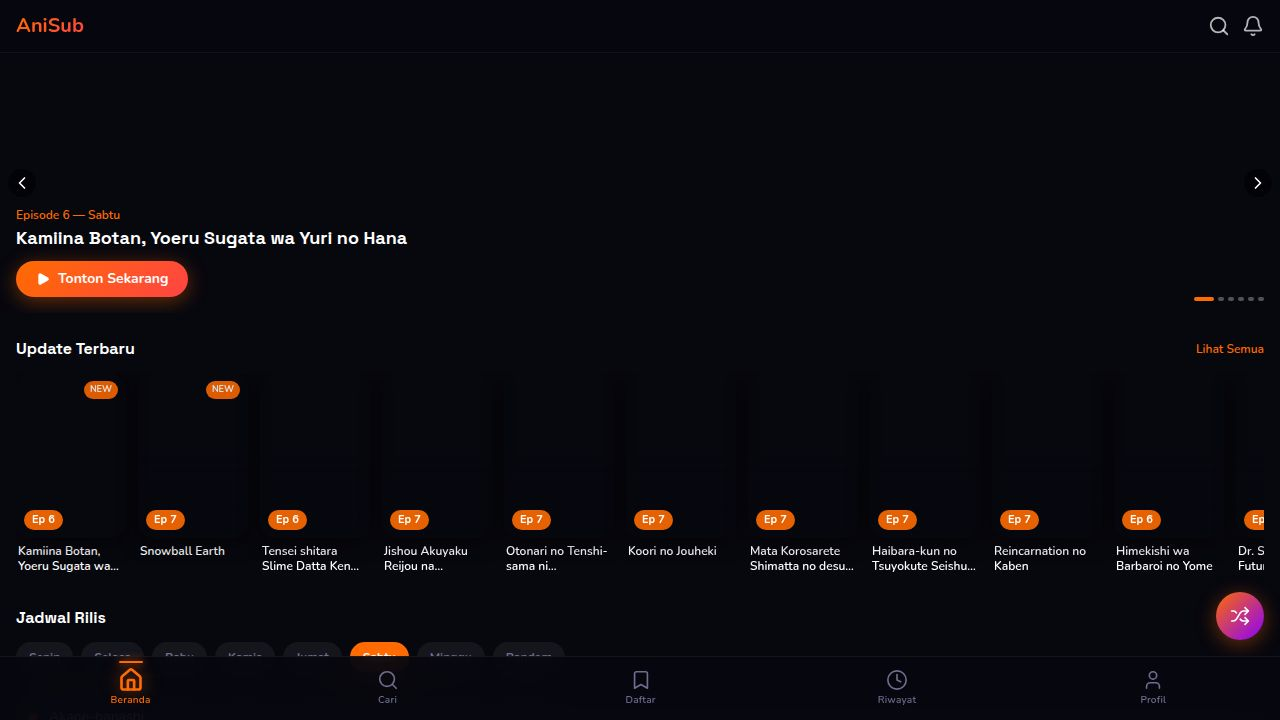
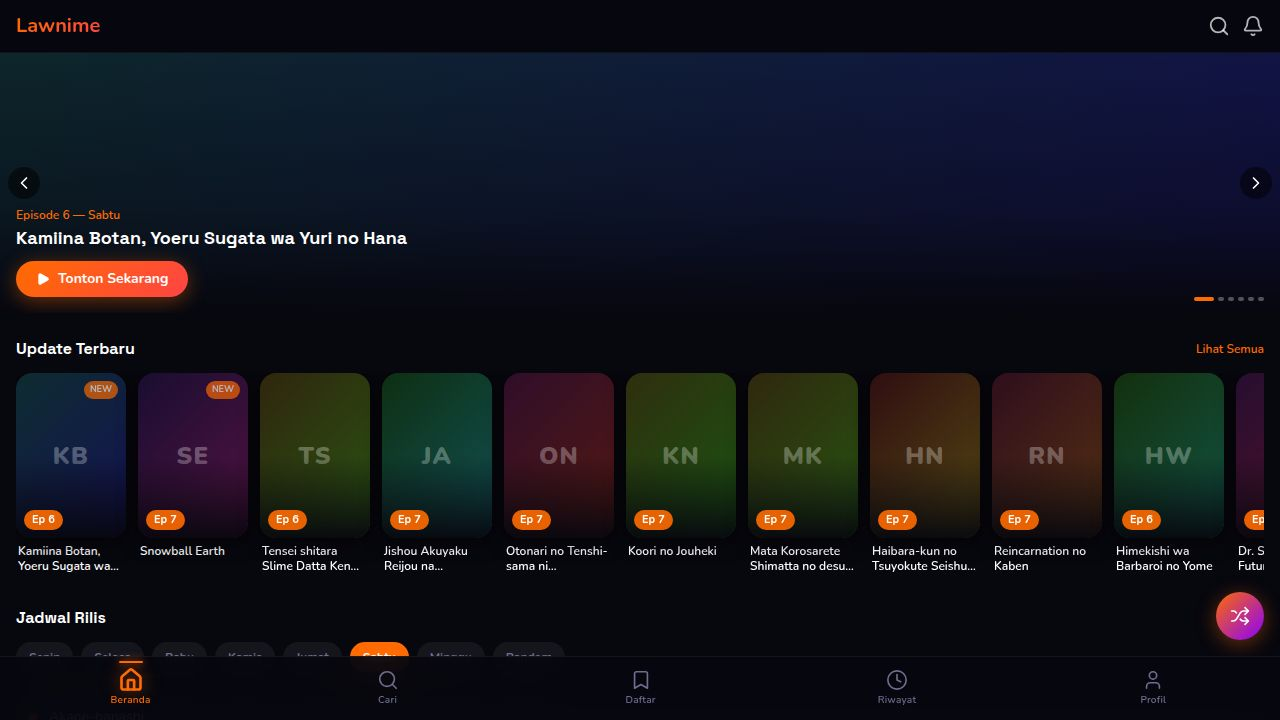
deploy: Lawnime v2 — gradient placeholders, poster fix, all pages

diff --git a/404.html b/404.html
@@ -20,8 +20,8 @@
     <link rel="icon" type="image/png" href="/anisub/icon-192.png" />
     <link rel="apple-touch-icon" href="/anisub/icon-192.png" />
     <link rel="manifest" href="/anisub/manifest.json" />
-    <script type="module" crossorigin src="/Jumalia-Makruf/assets/index-BzINl3Zb.js"></script>
-    <link rel="stylesheet" crossorigin href="/Jumalia-Makruf/assets/index-CC0h0WOa.css">
+    <script type="module" crossorigin src="/Jumalia-Makruf/assets/index-Cx_yfuzB.js"></script>
+    <link rel="stylesheet" crossorigin href="/Jumalia-Makruf/assets/index-DyAHDGE3.css">
   </head>
   <body style="background:#07070e;margin:0;padding:0;">
     <div id="root"></div>

diff --git a/index.html b/index.html
@@ -20,8 +20,8 @@
     <link rel="icon" type="image/png" href="/anisub/icon-192.png" />
     <link rel="apple-touch-icon" href="/anisub/icon-192.png" />
     <link rel="manifest" href="/anisub/manifest.json" />
-    <script type="module" crossorigin src="/Jumalia-Makruf/assets/index-BzINl3Zb.js"></script>
-    <link rel="stylesheet" crossorigin href="/Jumalia-Makruf/assets/index-CC0h0WOa.css">
+    <script type="module" crossorigin src="/Jumalia-Makruf/assets/index-Cx_yfuzB.js"></script>
+    <link rel="stylesheet" crossorigin href="/Jumalia-Makruf/assets/index-DyAHDGE3.css">
   </head>
   <body style="background:#07070e;margin:0;padding:0;">
     <div id="root"></div>